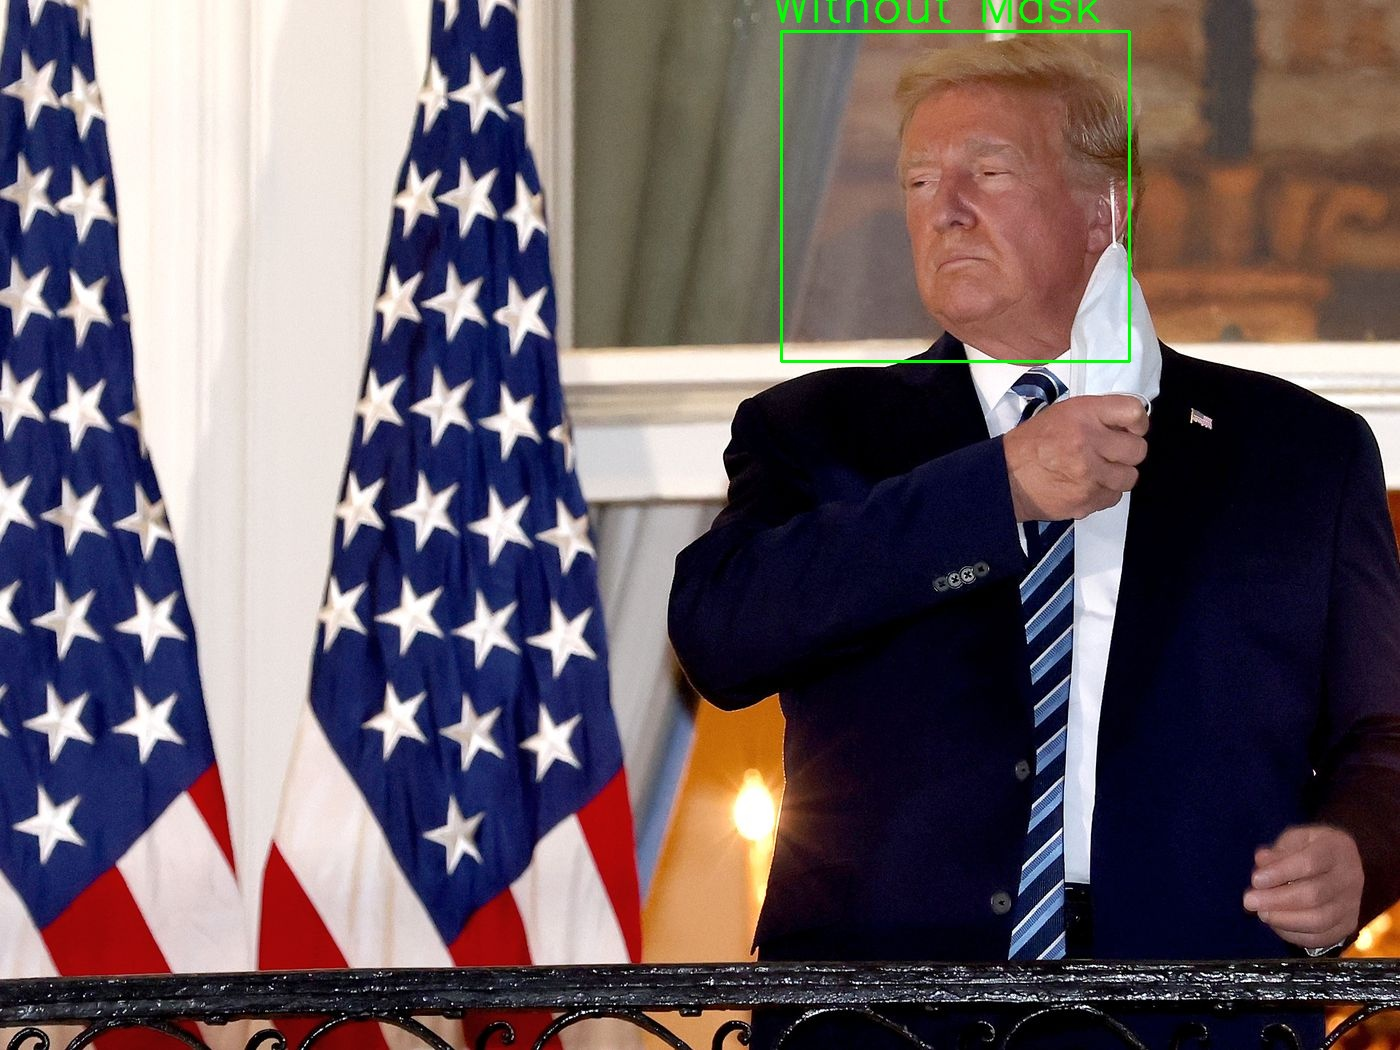
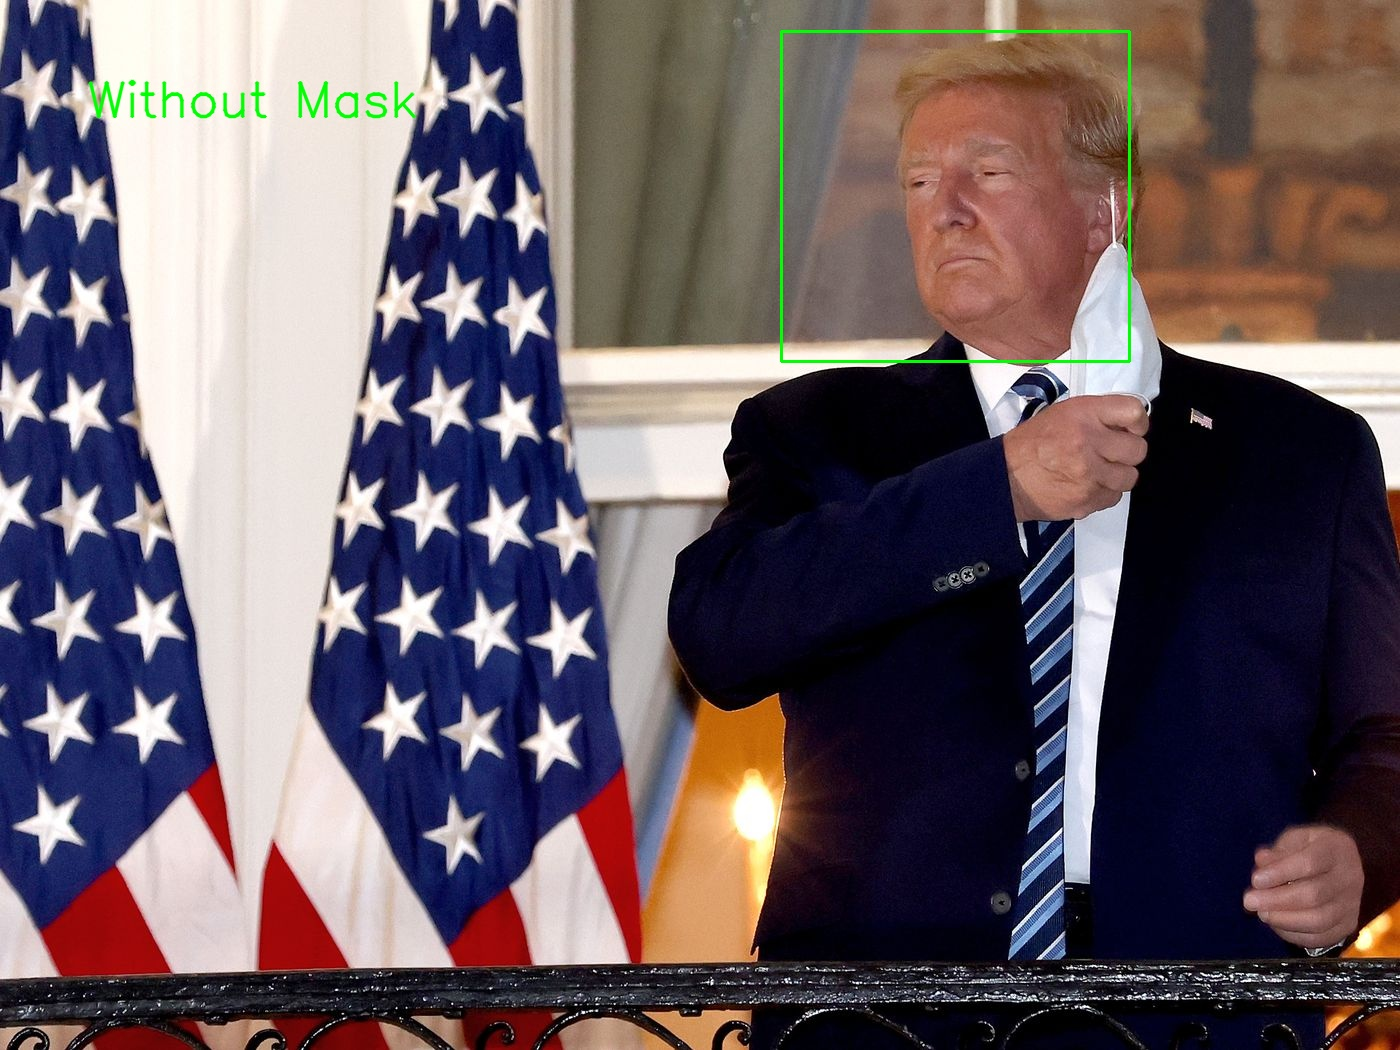
update

Changed region(s): [[0.0614, 0.061, 0.3071, 0.1219], [0.5529, 0.0, 0.7986, 0.0305]]

diff --git a/inference-img.py b/inference-img.py
@@ -6,7 +6,6 @@ from keras.models import load_model
 from FaceAlignment.align_image import main
 import argparse
 
-
 def get_optimal_font_scale(text, width):
 
     for scale in reversed(range(0, 60, 1)):
@@ -16,9 +15,8 @@ def get_optimal_font_scale(text, width):
             return scale/10
     return 1
 
-
 parser = argparse.ArgumentParser()
-parser.add_argument('--input', help='input image path', default='input/03.jpg', type=str)
+parser.add_argument("--input", default='input/02.jpg', type=str)
 args = parser.parse_args()
 
 model = load_model("weights/model.h5")
@@ -27,25 +25,34 @@ file_name, file_ext = os.path.splitext(os.path.basename(args.input))
 
 img = cv2.imread(args.input)
 img_rgb = cv2.cvtColor(img, cv2.COLOR_BGR2RGB)
-face, bb = main(img)
+face_BB = main(img)
 
-face_img = cv2.resize(face, (width, height))
-face_img = face_img / 255.0
-face_img = face_img.reshape(1, width, height, 3)
+try:
+    face, BB = next(face_BB)
+    face_img = cv2.resize(face, (width, height))
+    face_img = face_img / 255.0
+    face_img = face_img.reshape(1, width, height, 3)
 
-y_pred = model.predict(face_img)
-prediction = np.argmax(y_pred)
+    y_pred = model.predict(face_img)
+    prediction = np.argmax(y_pred)
 
-if prediction == 0:
-  y_pred = "With Mask"
-else:
-  y_pred = "Without Mask"
+    if prediction == 0:
+      y_pred = "With Mask"
+    else:
+      y_pred = "Without Mask"
 
-bb = np.array(bb)
-font_size = get_optimal_font_scale(y_pred, img_rgb.shape[1] // 4)
-cv2.rectangle(img, pt1=(bb[0], bb[1]), pt2=(bb[2], bb[3]), color=(0, 255, 0),thickness=2)
-cv2.putText(img, y_pred, (img_rgb.shape[0] // 12, img_rgb.shape[1] // 12), cv2.FONT_HERSHEY_SIMPLEX, font_size, (0, 255, 0), 2,
-                cv2.LINE_AA)
+    BB = np.array(BB)
+    font_size = get_optimal_font_scale(y_pred, img_rgb.shape[1] // 4)
+    cv2.rectangle(img, pt1=(BB[0], BB[1]), pt2=(BB[2], BB[3]), color=(0, 255, 0),thickness=2)
+    cv2.putText(img, y_pred, (img_rgb.shape[0] // 12, img_rgb.shape[1] // 12), cv2.FONT_HERSHEY_SIMPLEX, font_size, (0, 255, 0), 2,
+                    cv2.LINE_AA)
+
+except:
+    y_pred = 'Face not Detected'
+    font_size = get_optimal_font_scale(y_pred, img_rgb.shape[1] // 4)
+    cv2.putText(img, y_pred, (img_rgb.shape[0] // 12, img_rgb.shape[1] // 12), cv2.FONT_HERSHEY_SIMPLEX, font_size, (0, 255, 0), 2,
+                    cv2.LINE_AA)
+
 
 cv2.imshow('Face Mask Detection', img)
 cv2.imwrite(os.path.join('output/{}'.format(file_name)+ '.jpg'), img)

diff --git a/FaceAlignment/align_image.py b/FaceAlignment/align_image.py
@@ -2,30 +2,21 @@ import argparse
 from .face_alignment import image_align
 from .landmarks_detector import LandmarksDetector
 
-# if __name__ == "__main__":
 def main(img):
 
-    parser = argparse.ArgumentParser()
-    parser.add_argument('--input', help='input image path', default=img, type=str)
+    # parser = argparse.ArgumentParser()
+    # parser.add_argument('--input', help='input image path', default=img, type=str)
     # parser.add_argument('--output', help='output image path', default='output/', type=str)
-    parser.add_argument('--landmarks-model-path', help='landmarks model path', default='FaceAlignment/models/shape_predictor_68_face_landmarks.dat', type=str)
-    args = parser.parse_args()
+    # parser.add_argument('--landmarks-model-path', help='landmarks model path', default='FaceAlignment/models/shape_predictor_68_face_landmarks.dat', type=str)
+    # args = parser.parse_args()
 
-    # file_name, file_ext = os.path.splitext(os.path.basename(args.input))
-    landmarks_detector = LandmarksDetector(args.landmarks_model_path)
+    landmarks_detector = LandmarksDetector('FaceAlignment/models/shape_predictor_68_face_landmarks.dat')
+    all_face_landmarks = landmarks_detector.get_landmarks(img)
+
     try:
-        all_face_landmarks = landmarks_detector.get_landmarks(args.input)
         for i, face_landmarks in enumerate(all_face_landmarks):
-            # image = image_align(args.input, face_landmarks)
-            image, bb = image_align(args.input, face_landmarks)
-            print(image)
-            print(bb)
-            return image, bb
-            # output_file_path = os.path.join(args.output, file_name + "_" + str(i) + ".jpg")
-            # cv2.imwrite(output_file_path, image)
+            image, bb = image_align(img, face_landmarks)
+            yield image, bb
 
-    except Exception as e:
-        print("Error:", e)
-
-if __name__ == "__main__":
-    main()
+    except:
+        pass
